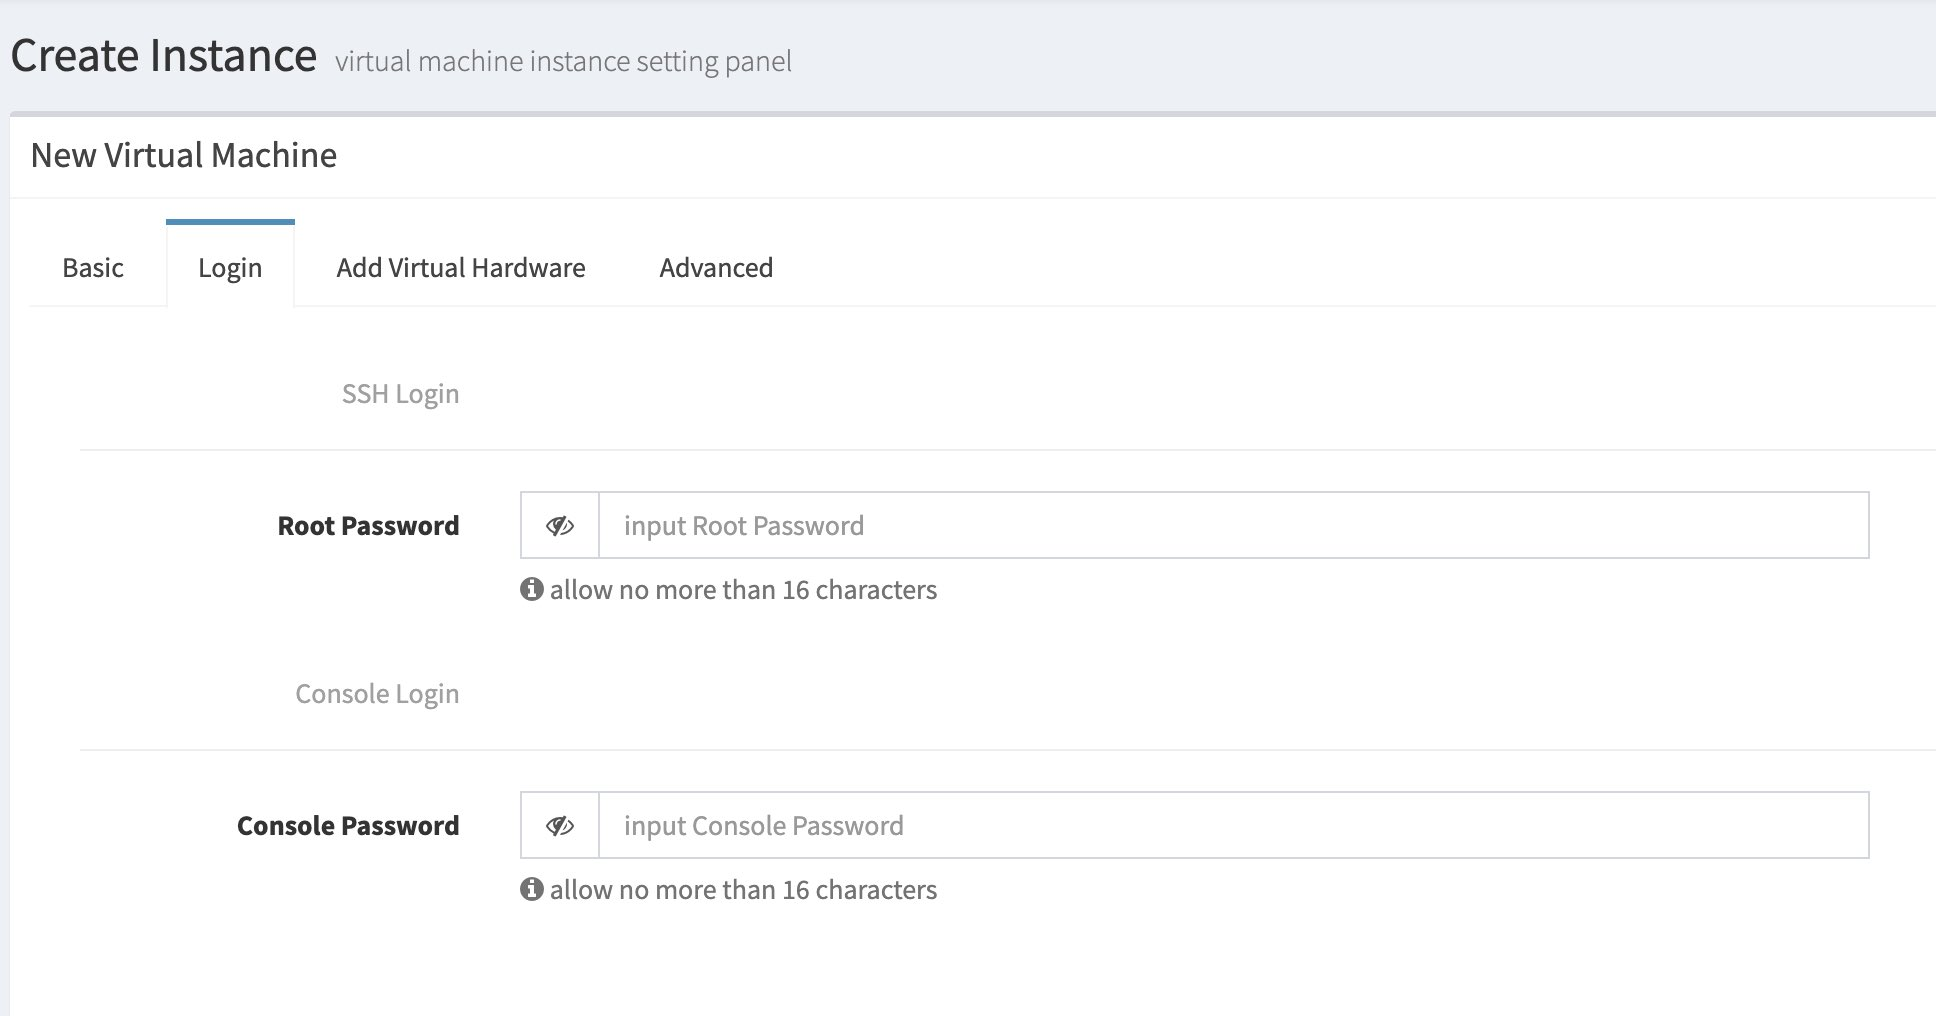
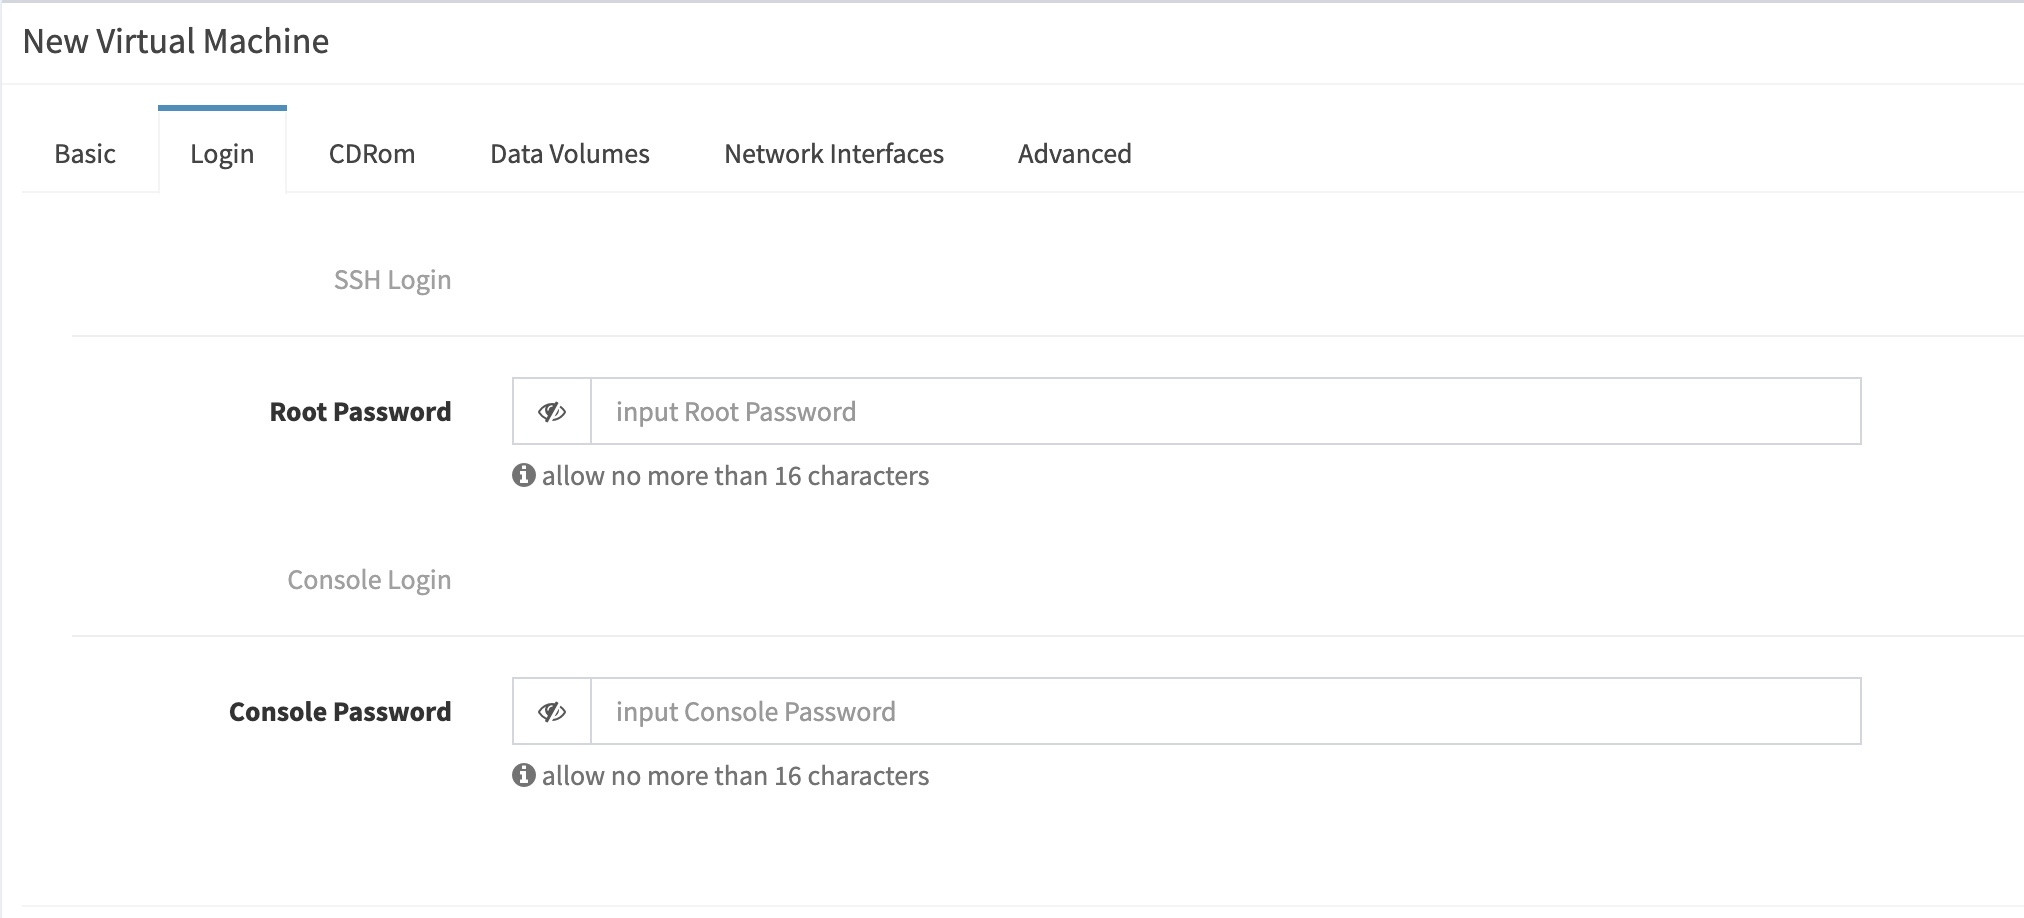
update

diff --git a/content/en/docs/Usage/WebUI/Compute/vm/_index.md b/content/en/docs/Usage/WebUI/Compute/vm/_index.md
@@ -64,11 +64,30 @@ virtual machine's operation logs
 {{% imgproc newvmlogin Fit "1000x600" %}}
 {{% /imgproc %}}
 
-* Input or choose following items in the "Add Virtual Hardware" tab:
-  * CDRom device, if set the CDRom as boot device, so the system will boot from this CDRom 
-  * Up to 128 data volumes can be added to the virtual machine 
-  * Up to 16 network interfaces can be added to the virtual machine
-{{% imgproc newvmdevices Fit "1000x1500" %}}
+* Input or choose following items in the "CDRom" tab:
+  * CDRom's image source, OS type, and image
+  * wheter to set it as a boot device, if so the system will boot from the CDRom 
+
+
+{{% imgproc newvm_cdrom Fit "1000x1500" %}}
+{{% /imgproc %}}
+
+* Input or choose following items in the "Data Volumes" tab:
+  * Input volume's name 
+  * Select a volume specification 
+  * Input volume's size 
+
+**Note**: Up to 128 data volumes can be added to the virtual machine 
+{{% imgproc newvm_volume Fit "1000x1500" %}}
+{{% /imgproc %}}
+
+* Input or choose following items in the "Network Interface" tab:
+  * Input NIC's name 
+  * Select a network 
+  * Select a subnet 
+  
+**Note**: Up to 16 network interfaces can be added to the virtual machine
+{{% imgproc newvm_nic Fit "1000x1500" %}}
 {{% /imgproc %}}
 
 ### Update Virtual Machine's Information

diff --git a/content/zh/docs/Usage/WebUI/Compute/vm/_index.md b/content/zh/docs/Usage/WebUI/Compute/vm/_index.md
@@ -64,12 +64,30 @@ weight: 2
 {{% imgproc newvmlogin Fit "1000x600" %}}
 {{% /imgproc %}}
 
-* 在"添加虚拟设备"页输入或选择:
-  * CDRom设备，如果选择"从CDRom"启动，则该CDRom作为引导盘启动
-  * 可以添加最多128块数据云盘
-  * 可以添加最多16个网卡
-{{% imgproc newvmdevices Fit "1000x1500" %}}
+* 在"CDROM"页输入或选择:
+  * CDRom设备的规格
+  * CDRom设备的镜像源、操作系统类型以及镜像
+  * 是否"从CDRom"启动，若是则该CDRom作为引导盘启动
+{{% imgproc newvm_cdrom Fit "1000x600" %}}
 {{% /imgproc %}}
+
+* 在"数据云盘"页输入或选择:
+  * 数据云盘名称
+  * 数据云盘规格
+  * 数据云盘大小
+{{% imgproc newvm_volume Fit "1000x600" %}}
+{{% /imgproc %}}
+
+**注**: 最多可以添加127块数据云盘
+
+* 在"附加网卡"页输入或选择:
+  * 网卡名称
+  * 选择网络
+  * 选择子网
+{{% imgproc newvm_nic Fit "1000x600" %}}
+{{% /imgproc %}}
+
+**注**: 最多可以添加15个网卡
 
 ### 更新虚拟机信息
 
